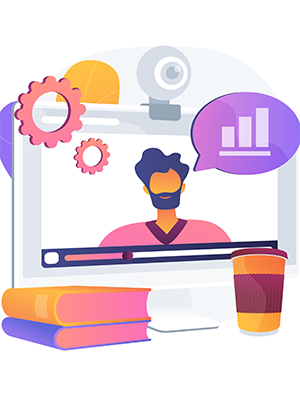
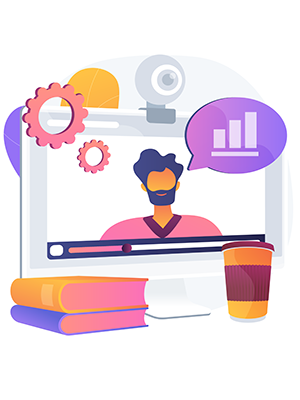
updated contact.html a bit, and fixed the videos clipart

Changed region(s): [[0.0, 0.09, 1.0, 0.9], [0.39, 0.33, 0.45, 0.36]]

diff --git a/contact.html b/contact.html
@@ -1,133 +1,158 @@
 <!DOCTYPE html>
 <html lang="en">
-    <head>
-        <meta charset="utf-8" />
-        <meta name="viewport" content="width=device-width, initial-scale=1, shrink-to-fit=no" />
-        <meta name="description" content />
-        <meta name="author" content />
-        <title>Modern Business - Start Bootstrap Template</title>
-        <!-- Favicon-->
-        <link rel="icon" type="image/x-icon" href="assets/favicon.ico" />
-        <!-- Custom Google font-->
-        <link rel="preconnect" href="https://fonts.googleapis.com" />
-        <link rel="preconnect" href="https://fonts.gstatic.com" crossorigin />
-        <link href="https://fonts.googleapis.com/css2?family=Plus+Jakarta+Sans:wght@100;200;300;400;500;600;700;800;900&amp;display=swap" rel="stylesheet" />
-        <!-- Bootstrap icons-->
-        <link href="https://cdn.jsdelivr.net/npm/bootstrap-icons@1.8.1/font/bootstrap-icons.css" rel="stylesheet" />
-        <!-- Core theme CSS (includes Bootstrap)-->
-        <link href="css/styles.css" rel="stylesheet" />
-    </head>
-    <body class="d-flex flex-column">
-        <main class="flex-shrink-0">
-            <!-- Navigation-->
-            <nav class="navbar navbar-expand-lg navbar-light bg-white py-3">
-                <div class="container px-5">
-                    <a class="navbar-brand" href="index.html"><span class="fw-bolder text-primary">Start Bootstrap</span></a>
-                    <button class="navbar-toggler" type="button" data-bs-toggle="collapse" data-bs-target="#navbarSupportedContent" aria-controls="navbarSupportedContent" aria-expanded="false" aria-label="Toggle navigation"><span class="navbar-toggler-icon"></span></button>
-                    <div class="collapse navbar-collapse" id="navbarSupportedContent">
-                        <ul class="navbar-nav ms-auto mb-2 mb-lg-0 small fw-bolder">
-                            <li class="nav-item"><a class="nav-link" href="index.html">Home</a></li>
-                            <li class="nav-item"><a class="nav-link" href="resume.html">Resume</a></li>
-                            <li class="nav-item"><a class="nav-link" href="projects.html">Projects</a></li>
-                            <li class="nav-item"><a class="nav-link" href="contact.html">Contact</a></li>
-                        </ul>
-                    </div>
-                </div>
-            </nav>
-            <!-- Page content-->
-            <section class="py-5">
-                <div class="container px-5">
-                    <!-- Contact form-->
-                    <div class="bg-light rounded-4 py-5 px-4 px-md-5">
-                        <div class="text-center mb-5">
-                            <div class="feature bg-primary bg-gradient-primary-to-secondary text-white rounded-3 mb-3"><i class="bi bi-envelope"></i></div>
-                            <h1 class="fw-bolder">Get in touch</h1>
-                            <p class="lead fw-normal text-muted mb-0">Let's work together!</p>
-                        </div>
-                        <div class="row gx-5 justify-content-center">
-                            <div class="col-lg-8 col-xl-6">
-                                <!-- * * * * * * * * * * * * * * *-->
-                                <!-- * * SB Forms Contact Form * *-->
-                                <!-- * * * * * * * * * * * * * * *-->
-                                <!-- This form is pre-integrated with SB Forms.-->
-                                <!-- To make this form functional, sign up at-->
-                                <!-- https://startbootstrap.com/solution/contact-forms-->
-                                <!-- to get an API token!-->
-                                <form id="contactForm" data-sb-form-api-token="API_TOKEN">
-                                    <!-- Name input-->
-                                    <div class="form-floating mb-3">
-                                        <input class="form-control" id="name" type="text" placeholder="Enter your name..." data-sb-validations="required" />
-                                        <label for="name">Full name</label>
-                                        <div class="invalid-feedback" data-sb-feedback="name:required">A name is required.</div>
-                                    </div>
-                                    <!-- Email address input-->
-                                    <div class="form-floating mb-3">
-                                        <input class="form-control" id="email" type="email" placeholder="name@example.com" data-sb-validations="required,email" />
-                                        <label for="email">Email address</label>
-                                        <div class="invalid-feedback" data-sb-feedback="email:required">An email is required.</div>
-                                        <div class="invalid-feedback" data-sb-feedback="email:email">Email is not valid.</div>
-                                    </div>
-                                    <!-- Phone number input-->
-                                    <div class="form-floating mb-3">
-                                        <input class="form-control" id="phone" type="tel" placeholder="(123) 456-7890" data-sb-validations="required" />
-                                        <label for="phone">Phone number</label>
-                                        <div class="invalid-feedback" data-sb-feedback="phone:required">A phone number is required.</div>
-                                    </div>
-                                    <!-- Message input-->
-                                    <div class="form-floating mb-3">
-                                        <textarea class="form-control" id="message" type="text" placeholder="Enter your message here..." style="height: 10rem" data-sb-validations="required"></textarea>
-                                        <label for="message">Message</label>
-                                        <div class="invalid-feedback" data-sb-feedback="message:required">A message is required.</div>
-                                    </div>
-                                    <!-- Submit success message-->
-                                    <!---->
-                                    <!-- This is what your users will see when the form-->
-                                    <!-- has successfully submitted-->
-                                    <div class="d-none" id="submitSuccessMessage">
-                                        <div class="text-center mb-3">
-                                            <div class="fw-bolder">Form submission successful!</div>
-                                            To activate this form, sign up at
-                                            <br />
-                                            <a href="https://startbootstrap.com/solution/contact-forms">https://startbootstrap.com/solution/contact-forms</a>
-                                        </div>
-                                    </div>
-                                    <!-- Submit error message-->
-                                    <!---->
-                                    <!-- This is what your users will see when there is-->
-                                    <!-- an error submitting the form-->
-                                    <div class="d-none" id="submitErrorMessage"><div class="text-center text-danger mb-3">Error sending message!</div></div>
-                                    <!-- Submit Button-->
-                                    <div class="d-grid"><button class="btn btn-primary btn-lg disabled" id="submitButton" type="submit">Submit</button></div>
-                                </form>
-                            </div>
-                        </div>
-                    </div>
-                </div>
-            </section>
-        </main>
-        <!-- Footer-->
-        <footer class="bg-white py-4 mt-auto">
+
+<head>
+    <meta charset="utf-8" />
+    <meta name="viewport" content="width=device-width, initial-scale=1, shrink-to-fit=no" />
+    <meta name="description" content />
+    <meta name="author" content />
+    <title>Dr. Rawley Contact</title>
+    <!-- Favicon-->
+    <link rel="icon" type="image/x-icon" href="assets/favicon.ico" />
+    <!-- Custom Google font-->
+    <link rel="preconnect" href="https://fonts.googleapis.com" />
+    <link rel="preconnect" href="https://fonts.gstatic.com" crossorigin />
+    <link
+        href="https://fonts.googleapis.com/css2?family=Plus+Jakarta+Sans:wght@100;200;300;400;500;600;700;800;900&amp;display=swap"
+        rel="stylesheet" />
+    <!-- Bootstrap icons-->
+    <link href="https://cdn.jsdelivr.net/npm/bootstrap-icons@1.8.1/font/bootstrap-icons.css" rel="stylesheet" />
+    <!-- Core theme CSS (includes Bootstrap)-->
+    <link href="css/styles.css" rel="stylesheet" />
+</head>
+
+<body class="d-flex flex-column">
+    <main class="flex-shrink-0">
+        <!-- Navigation-->
+        <nav class="navbar navbar-expand-lg navbar-light bg-white py-3">
             <div class="container px-5">
-                <div class="row align-items-center justify-content-between flex-column flex-sm-row">
-                    <div class="col-auto"><div class="small m-0">Copyright &copy; Your Website 2023</div></div>
-                    <div class="col-auto">
-                        <a class="small" href="#!">Privacy</a>
-                        <span class="mx-1">&middot;</span>
-                        <a class="small" href="#!">Terms</a>
-                        <span class="mx-1">&middot;</span>
-                        <a class="small" href="#!">Contact</a>
+                <a class="navbar-brand" href="index.html"><span class="fw-bolder text-primary">Dr. Rawley</span></a>
+                <button class="navbar-toggler" type="button" data-bs-toggle="collapse"
+                    data-bs-target="#navbarSupportedContent" aria-controls="navbarSupportedContent"
+                    aria-expanded="false" aria-label="Toggle navigation"><span
+                        class="navbar-toggler-icon"></span></button>
+                <div class="collapse navbar-collapse" id="navbarSupportedContent">
+                    <ul class="navbar-nav ms-auto mb-2 mb-lg-0 small fw-bolder">
+                        <li class="nav-item"><a class="nav-link" href="index.html">Home</a></li>
+                        <li class="nav-item"><a class="nav-link" href="resume.html">Resume</a></li>
+                        <li class="nav-item"><a class="nav-link" href="projects.html">Projects</a></li>
+                        <li class="nav-item"><a class="nav-link" href="contact.html">Contact</a></li>
+                    </ul>
+                </div>
+            </div>
+        </nav>
+        <!-- Page content-->
+        <section class="py-5">
+            <div class="container px-5">
+                <!-- Contact form-->
+                <div class="bg-light rounded-4 py-5 px-4 px-md-5">
+                    <div class="text-center mb-5">
+                        <div class="feature bg-primary bg-gradient-primary-to-secondary text-white rounded-3 mb-3"><i
+                                class="bi bi-envelope"></i></div>
+                        <h1 class="fw-bolder">Get in touch</h1>
+                        <p class="lead fw-normal text-muted mb-0">Let's work together!</p>
+                    </div>
+                    <div class="row gx-5 justify-content-center">
+                        <div class="col-lg-8 col-xl-6">
+                            <!-- * * * * * * * * * * * * * * *-->
+                            <!-- * * SB Forms Contact Form * *-->
+                            <!-- * * * * * * * * * * * * * * *-->
+                            <!-- This form is pre-integrated with SB Forms.-->
+                            <!-- To make this form functional, sign up at-->
+                            <!-- https://startbootstrap.com/solution/contact-forms-->
+                            <!-- to get an API token!-->
+                            <form id="contactForm" data-sb-form-api-token="API_TOKEN">
+                                <!-- Name input-->
+                                <div class="form-floating mb-3">
+                                    <input class="form-control" id="name" type="text" placeholder="Enter your name..."
+                                        data-sb-validations="required" />
+                                    <label for="name">Name</label>
+                                    <div class="invalid-feedback" data-sb-feedback="name:required">A name is required.
+                                    </div>
+                                </div>
+                                <!-- Email address input-->
+                                <div class="form-floating mb-3">
+                                    <input class="form-control" id="email" type="email" placeholder="name@example.com"
+                                        data-sb-validations="required,email" />
+                                    <label for="email">Email address</label>
+                                    <div class="invalid-feedback" data-sb-feedback="email:required">An email is
+                                        required.</div>
+                                    <div class="invalid-feedback" data-sb-feedback="email:email">Email is not valid.
+                                    </div>
+                                </div>
+                                <!-- Phone number input-->
+                                <div class="form-floating mb-3">
+                                    <input class="form-control" id="phone" type="tel" placeholder="(123) 456-7890"
+                                        data-sb-validations="required" />
+                                    <label for="phone">Phone number</label>
+                                    <div class="invalid-feedback" data-sb-feedback="phone:required">A phone number is
+                                        required.</div>
+                                </div>
+                                <!-- Message input-->
+                                <div class="form-floating mb-3">
+                                    <textarea class="form-control" id="message" type="text"
+                                        placeholder="Enter your message here..." style="height: 10rem"
+                                        data-sb-validations="required"></textarea>
+                                    <label for="message">Message</label>
+                                    <div class="invalid-feedback" data-sb-feedback="message:required">A message is
+                                        required.</div>
+                                </div>
+                                <!-- Submit success message-->
+                                <!---->
+                                <!-- This is what your users will see when the form-->
+                                <!-- has successfully submitted-->
+                                <div class="d-none" id="submitSuccessMessage">
+                                    <div class="text-center mb-3">
+                                        <div class="fw-bolder">Form submission successful!</div>
+                                        To activate this form, sign up at
+                                        <br />
+                                        <a
+                                            href="https://startbootstrap.com/solution/contact-forms">https://startbootstrap.com/solution/contact-forms</a>
+                                    </div>
+                                </div>
+                                <!-- Submit error message-->
+                                <!---->
+                                <!-- This is what your users will see when there is-->
+                                <!-- an error submitting the form-->
+                                <div class="d-none" id="submitErrorMessage">
+                                    <div class="text-center text-danger mb-3">Error sending message!</div>
+                                </div>
+                                <!-- Submit Button-->
+                                <div class="d-grid"><button class="btn btn-primary btn-lg disabled" id="submitButton"
+                                        type="submit">Submit</button></div>
+                            </form>
+                        </div>
                     </div>
                 </div>
             </div>
-        </footer>
-        <!-- Bootstrap core JS-->
-        <script src="https://cdn.jsdelivr.net/npm/bootstrap@5.2.3/dist/js/bootstrap.bundle.min.js"></script>
-        <!-- Core theme JS-->
-        <script src="js/scripts.js"></script>
-        <!-- * * * * * * * * * * * * * * * * * * * * * * * * * * * * * * * * * * * * * * * *-->
-        <!-- * *                               SB Forms JS                               * *-->
-        <!-- * * Activate your form at https://startbootstrap.com/solution/contact-forms * *-->
-        <!-- * * * * * * * * * * * * * * * * * * * * * * * * * * * * * * * * * * * * * * * *-->
-        <script src="https://cdn.startbootstrap.com/sb-forms-latest.js"></script>
-    </body>
+        </section>
+    </main>
+    <!-- Footer-->
+    <footer class="bg-white py-4 mt-auto">
+        <div class="container px-5">
+            <div class="row align-items-center justify-content-between flex-column flex-sm-row">
+                <div class="col-auto">
+                    <div class="small m-0">Copyright &copy; Your Website 2023</div>
+                </div>
+                <div class="col-auto">
+                    <a class="small" href="#!">Privacy</a>
+                    <span class="mx-1">&middot;</span>
+                    <a class="small" href="#!">Terms</a>
+                    <span class="mx-1">&middot;</span>
+                    <a class="small" href="#!">Contact</a>
+                </div>
+            </div>
+        </div>
+    </footer>
+    <!-- Bootstrap core JS-->
+    <script src="https://cdn.jsdelivr.net/npm/bootstrap@5.2.3/dist/js/bootstrap.bundle.min.js"></script>
+    <!-- Core theme JS-->
+    <script src="js/scripts.js"></script>
+    <!-- * * * * * * * * * * * * * * * * * * * * * * * * * * * * * * * * * * * * * * * *-->
+    <!-- * *                               SB Forms JS                               * *-->
+    <!-- * * Activate your form at https://startbootstrap.com/solution/contact-forms * *-->
+    <!-- * * * * * * * * * * * * * * * * * * * * * * * * * * * * * * * * * * * * * * * *-->
+    <script src="https://cdn.startbootstrap.com/sb-forms-latest.js"></script>
+</body>
+
 </html>
